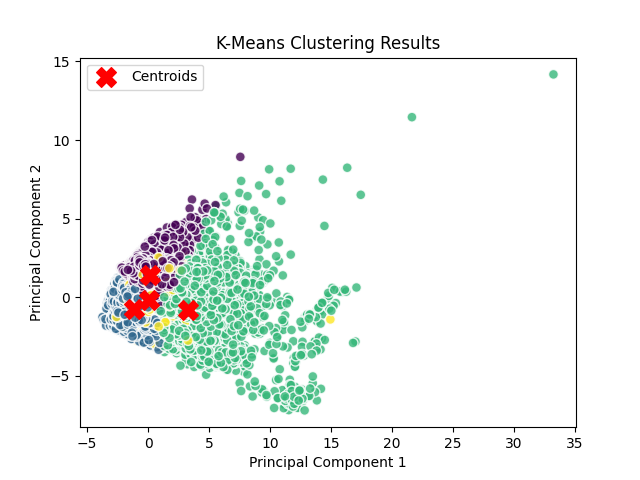
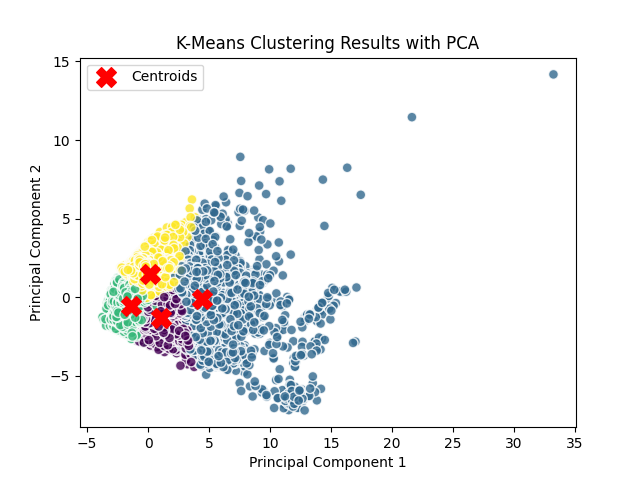
added no PCA version

diff --git a/dataprocessing.py b/dataprocessing.py
@@ -33,11 +33,6 @@ def principal_component_analysis(data, num_components):
     return new_df, pca
 
 
-new_df, pca = principal_component_analysis(data, num_components=5)
-# Each index is the explained percentage of variance in data
-print("Explained Variance Ratio:", pca.explained_variance_ratio_)
-
-
 def k_means(data, k, max_iterations=100, tol=1e-4):
     # randomly initialize centroids
     centroids = data.values[np.random.choice(len(data), k, replace=False)]
@@ -66,16 +61,21 @@ def k_means(data, k, max_iterations=100, tol=1e-4):
     return labels, centroids
 
 
+# new_df, pca = principal_component_analysis(data, num_components=5)
+
+# Each index is the explained percentage of variance in data
+# print("Explained Variance Ratio:", pca.explained_variance_ratio_)
+
 k = 4
-labels, centroids = k_means(new_df, k)
+labels, centroids = k_means(data, k)
 
 print("Final Centroids:\n", centroids)
 print("Labels:\n", labels)
 
 # visualize first two dimensions of clusters
 plt.scatter(
-    new_df["PC1"],
-    new_df["PC2"],
+    data["RSK_LVL"],
+    data["BALANCE"],
     c=labels,
     cmap="viridis",
     s=50,
@@ -85,8 +85,8 @@ plt.scatter(
 plt.scatter(
     centroids[:, 0], centroids[:, 1], c="red", marker="X", s=200, label="Centroids"
 )
-plt.title("K-Means Clustering Results")
-plt.xlabel("Principal Component 1")
-plt.ylabel("Principal Component 2")
+plt.title("K-Means Clustering Results without PCA")
+plt.xlabel("RSK_LVL")
+plt.ylabel("BALANCE")
 plt.legend()
 plt.show()

diff --git a/README.md b/README.md
@@ -3,3 +3,10 @@
 1. Take PCA on the data
 2. Use K-Means clutering algorithm for unsupervised learning.
 ![K-means clustering 4 centroids and 5 pca_components](figures/Figure_1.png)
+
+### Problem:
+By using PCA, we lose all meaning in the dimensions. Instead, we can try to use K-means without using PCA, but it might suffer from the curse of dimensionality.
+
+## Using K-means without PCA
+1. use K-means clustering algorithm for unsupervised learning.
+![K-means w/o PCA. 4 centroids](figures/k-meansNoPCA.png)
